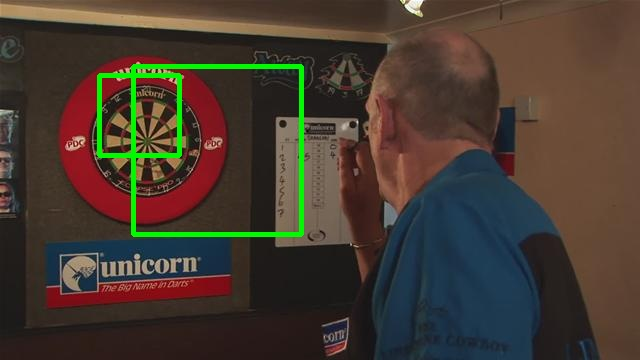
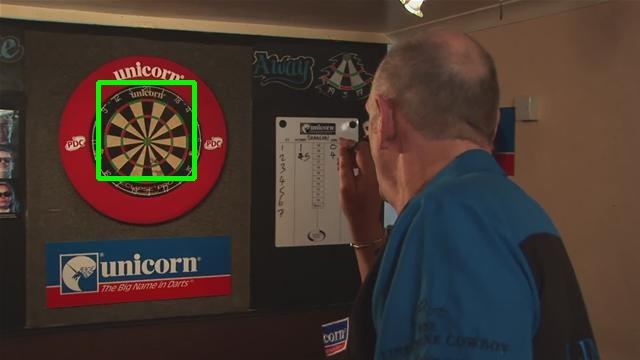
No equalise hist

Changed region(s): [[0.125, 0.1528, 0.5, 0.6722]]

diff --git a/Assignment/task3/task.cpp b/Assignment/task3/task.cpp
@@ -511,11 +511,12 @@ int main( int argc, char** argv ) {
     }
 
     detector.convert_grey();
-
+    //detector.equalize_hist();
     detector.sobel();
     detector.houghTransformCircle();
+
     detector.houghTransformLine();
-    detector.equalize_hist();
+
     detector.violaJones();
 
     detector.combineDectections();
